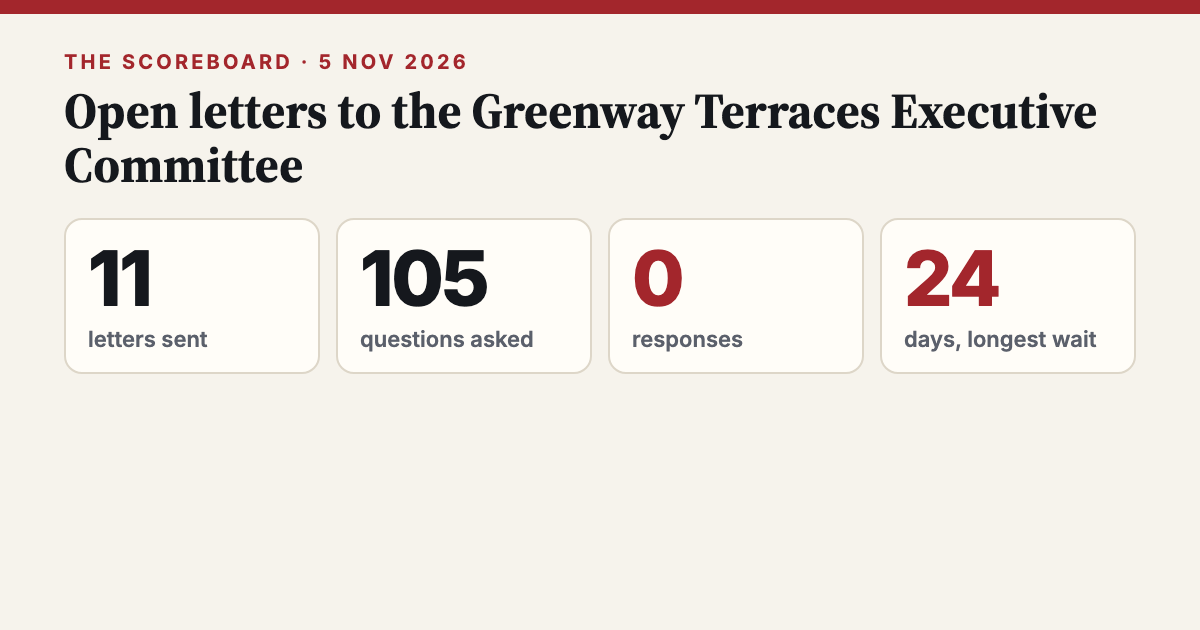
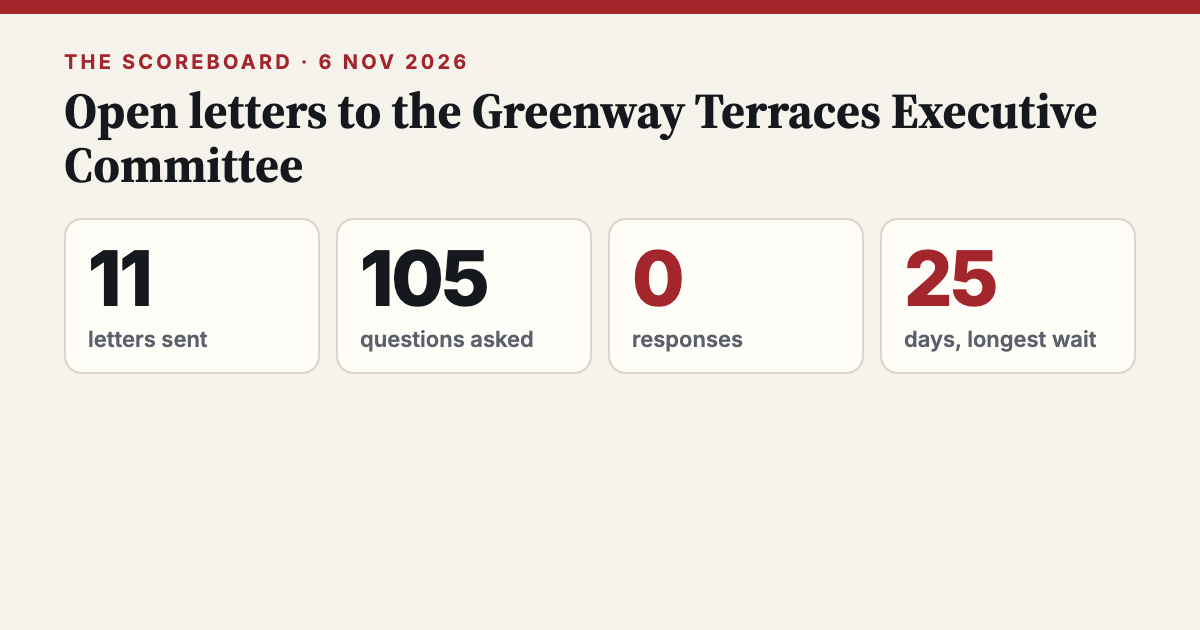
Update 2026-11-06 07:15

diff --git a/index.html b/index.html
@@ -60,11 +60,11 @@ h3{font-size:17px;margin:26px 0 6px}
 <p class="lede">Open letters from an owner to the Executive Committee of Greenway Terraces (Units Plan 12457) and its strata manager: what was asked, and whether anyone answered. Each letter gets 28 days to be answered, or the deadline it sets itself. Responses are published in full; so is silence.</p>
 <div class="score"><div><b>11</b><span>letters sent</span></div><div><b>105</b><span>questions asked</span></div>
 <div class="red"><b>0</b><span>responses received</span></div>
-<div class="red"><b><span data-score-days="2026-10-12" style="font:inherit;color:inherit">24</span></b><span>days, longest wait</span></div></div>
+<div class="red"><b><span data-score-days="2026-10-12" style="font:inherit;color:inherit">25</span></b><span>days, longest wait</span></div></div>
 <input id="q" type="search" placeholder="Search letters" aria-label="Search letters">
 <div class="filters"><button class="on" data-f="">All (11)</button><button data-f="overdue">No response</button><button data-f="awaiting">Awaiting</button><button data-f="responded">Responded</button></div>
-<ul class="list" id="list"><li data-s="awaiting" data-t="battery proposed for greenway terraces common property: questions on cost and consent my letter to the greenway terraces executive committee asks who approved the proposed common property battery, what it will cost, and whose solar electricity would charge it. i've asked for a reply in writing. " style="--c:var(--amber)" data-sent="2026-10-22" data-deadline="2026-11-05">
-<a href="l/2026-10-22-proposed-common-property-battery-request-for-a-full/">Battery proposed for Greenway Terraces common property: questions on cost and consent</a><div class="m"><span class="pill">Awaiting</span>22 Oct 2026 · to the Executive Committee · 8 questions</div></li>
+<ul class="list" id="list"><li data-s="overdue" data-t="battery proposed for greenway terraces common property: questions on cost and consent my letter to the greenway terraces executive committee asks who approved the proposed common property battery, what it will cost, and whose solar electricity would charge it. i've asked for a reply in writing. " style="--c:var(--red)" data-sent="2026-10-22" data-deadline="2026-11-05">
+<a href="l/2026-10-22-proposed-common-property-battery-request-for-a-full/">Battery proposed for Greenway Terraces common property: questions on cost and consent</a><div class="m"><span class="pill">No response</span>22 Oct 2026 · to the Executive Committee · 8 questions</div></li>
 <li data-s="awaiting" data-t="greenway terraces newsletter: a call to explain decisions, costs and the solar battery i've written to the greenway terraces executive committee asking that newsletters explain decisions, costs and funding, and that questions about the proposed solar battery be answered. " style="--c:var(--amber)" data-sent="2026-10-20" data-deadline="2026-11-17">
 <a href="l/2026-10-20-greenway-terraces-newsletter-some-constructive-suggestions/">Greenway Terraces newsletter: a call to explain decisions, costs and the solar battery</a><div class="m"><span class="pill">Awaiting</span>20 Oct 2026 · to the Executive Committee · 4 questions</div></li>
 <li data-s="awaiting" data-t="questions to the greenway terraces committee on the proposed common property battery i've written to the greenway terraces executive committee (up12457) asking where the solar electricity to charge the proposed common property battery would come from, and for a reply by 17 november 2026. " style="--c:var(--amber)" data-sent="2026-10-20" data-deadline="2026-11-17">
@@ -73,8 +73,8 @@ h3{font-size:17px;margin:26px 0 6px}
 <a href="l/2026-10-18-guidelines-for-submitting-correspondence-to-the-ec-status/">Greenway Terraces EC correspondence guidelines: item 8 on AI and 34 unanswered items</a><div class="m"><span class="pill">No response</span>18 Oct 2026 · to the Executive Committee · 7 questions</div></li>
 <li data-s="overdue" data-t="pool-area palm trees: 192 days without answers on cost and dead replacements i've written to the greenway terraces executive committee asking what removing the pool palms and planting the replacements cost, whether the new trees are dead, and why my 9 april 2026 questions are unanswered. " style="--c:var(--red)" data-sent="2026-10-18" data-deadline="2026-10-30">
 <a href="l/2026-10-18-the-pool-area-palm-trees-and-their-replacements/">Pool-area palm trees: 192 days without answers on cost and dead replacements</a><div class="m"><span class="pill">No response</span>18 Oct 2026 · to the Executive Committee · 11 questions</div></li>
-<li data-s="awaiting" data-t="greenway terraces cameras: $24,000 approved, no review for owners i've written to the greenway terraces executive committee asking it to pause any camera extension, publish a review of the seven existing cameras and the $24,000 spend, and list every time footage was accessed. " style="--c:var(--amber)" data-sent="2026-10-15" data-deadline="2026-11-05">
-<a href="l/2026-10-15-video-cameras-my-questions-the-committees-responses-recommendations/">Greenway Terraces cameras: $24,000 approved, no review for owners</a><div class="m"><span class="pill">Awaiting</span>15 Oct 2026 · to the Executive Committee · 18 questions</div></li>
+<li data-s="overdue" data-t="greenway terraces cameras: $24,000 approved, no review for owners i've written to the greenway terraces executive committee asking it to pause any camera extension, publish a review of the seven existing cameras and the $24,000 spend, and list every time footage was accessed. " style="--c:var(--red)" data-sent="2026-10-15" data-deadline="2026-11-05">
+<a href="l/2026-10-15-video-cameras-my-questions-the-committees-responses-recommendations/">Greenway Terraces cameras: $24,000 approved, no review for owners</a><div class="m"><span class="pill">No response</span>15 Oct 2026 · to the Executive Committee · 18 questions</div></li>
 <li data-s="overdue" data-t="playground softfall, colour change and shade sails: which fund and which authority i've written to the greenway terraces executive committee asking which fund paid for the playground softfall, the fitness area colour change and the shade sails, and which section of the act authorised each. " style="--c:var(--red)" data-sent="2026-10-14" data-deadline="2026-10-28">
 <a href="l/2026-10-14-authority-for-the-playground-softfall-fitness-area-colour/">Playground softfall, colour change and shade sails: which fund and which authority</a><div class="m"><span class="pill">No response</span>14 Oct 2026 · to the Executive Committee · 7 questions</div></li>
 <li data-s="awaiting" data-t="greenway terraces: reduced-quorum agms since 2020 and unanswered correspondence i've written to the executive committee of units plan 12457 asking it to confirm what the new communication group is for, and to adopt pre-agm consultation, one route for resident input, and electronic voting. " style="--c:var(--amber)" data-sent="2026-10-13" data-deadline="2026-11-10">
@@ -85,7 +85,7 @@ h3{font-size:17px;margin:26px 0 6px}
 <a href="l/2026-10-12-maintenance-plan-for-greenway-terraces-qia-job-179351/">Greenway Terraces maintenance plan: inconsistencies and missing inspection records</a><div class="m"><span class="pill">No response</span>12 Oct 2026 · to the Executive Committee · 7 questions</div></li>
 <li data-s="awaiting" data-t="questions to the greenway terraces committee on the october 2026 information booklet i've written to the executive committee of owners corporation up12457 asking which resolution made the rules in the october 2026 booklet, whether they are registered, and for a reply by 6 november 2026. " style="--c:var(--amber)" data-sent="2026-10-12" data-deadline="2026-11-06">
 <a href="l/2026-10-12-information-booklet-v1-0-october-2026-request-for/">Questions to the Greenway Terraces committee on the October 2026 information booklet</a><div class="m"><span class="pill">Awaiting</span>12 Oct 2026 · to the Executive Committee · 22 questions</div></li></ul>
-<div class="foot">Steve Prothero · owner · Published by Steve Prothero · Updated 5 November 2026</div>
+<div class="foot">Steve Prothero · owner · Published by Steve Prothero · Updated 6 November 2026</div>
 <script>(function(){var f='',q=document.getElementById('q');function go(){var v=q.value.toLowerCase();document.querySelectorAll('#list li').forEach(function(li){var s=li.querySelector('.pill').textContent==='No response'?'overdue':li.dataset.s;li.style.display=(!f||s===f)&&(!v||li.dataset.t.indexOf(v)>=0)?'':'none'})}
 q.oninput=go;document.querySelectorAll('.filters button').forEach(function(b){b.onclick=function(){document.querySelectorAll('.filters button').forEach(function(x){x.classList.remove('on')});b.classList.add('on');f=b.dataset.f;go()}})})();</script></div><script>(function(){
 var t=new Intl.DateTimeFormat('en-CA',{timeZone:'Australia/Sydney'}).format(new Date());

diff --git a/l/2026-10-12-information-booklet-v1-0-october-2026-request-for/index.html b/l/2026-10-12-information-booklet-v1-0-october-2026-request-for/index.html
@@ -60,7 +60,7 @@ h3{font-size:17px;margin:26px 0 6px}
 <p class="lede">I've written to the Executive Committee of Owners Corporation UP12457 asking which resolution made the rules in the October 2026 booklet, whether they are registered, and for a reply by 6 November 2026.</p>
 <p class="meta">To <b>The Executive Committee, Greenway Terraces (UP12457)</b></p>
 <div class="clock" style="--c:var(--amber)" data-sent="2026-10-12" data-deadline="2026-11-06" data-small="6 Nov 2026">
-<div class="big">Day 24 of 25 — awaiting a response</div><div class="small">Response due 6 Nov 2026. 1 day left.</div><div class="bar"><i style="width:96%"></i></div></div>
+<div class="big">Day 25 of 25 — awaiting a response</div><div class="small">Response due 6 Nov 2026. 0 days left.</div><div class="bar"><i style="width:100%"></i></div></div>
 
 <h2>22 questions put to the Committee</h2>
 <ol class="qs" style="--c:var(--red)"><li>Which resolution made the rules in the booklet, at which meeting, and was it passed at a full or a reduced-quorum meeting?<span class="st">Unanswered</span></li><li>Have they been lodged for registration and, if so, on what date? If not, why is the booklet presenting them as the current rules?<span class="st">Unanswered</span></li><li>What has been issued to owners and residents since V1.0 was circulated, and does the Committee intend to correct or withdraw it if registration has not occurred?<span class="st">Unanswered</span></li><li>What is the Committee's authority for creating obligations by signage, given that rules are made by the Owners Corporation by special resolution?<span class="st">Unanswered</span></li><li>Which of the sign provisions does the Committee say are enforceable against residents, and under which registered rule?<span class="st">Unanswered</span></li><li>The supervision standards differ: rule 1.7(2)(b) (children under 16 in the pool room, by a responsible adult) and the signs (children under 12, by a person 16 or over). Which is correct?<span class="st">Unanswered</span></li><li>Which permitted ground does the Committee rely on for each of these requirements?<span class="st">Unanswered</span></li><li>What is the source and date of the advice recorded in Note 8, and who gave it?<span class="st">Unanswered</span></li><li>On what basis may the Committee require compliance with guidance not yet issued (rule 1.16(6))?<span class="st">Unanswered</span></li><li>Rule 1.17(3) limits charging of light electric vehicles, including mobility scooters, to the unit courtyard. What provision is made for residents with a disability who cannot comply?<span class="st">Unanswered</span></li><li>On what authority does the Strata Manager impose a penalty by letter, and how does that fit with section 109?<span class="st">Unanswered</span></li><li>Please identify the provision cited in paragraph 9, and the resolution by which the Committee and the Strata Manager were given permission to take legal action.<span class="st">Unanswered</span></li><li>The preamble says no special privilege to park is granted, while rule 1.7(8) grants one. Which applies?<span class="st">Unanswered</span></li><li>The policy treats 24 hours in a seven-day period in visitor parking as &quot;temporary parking&quot;, and rules 1.13(5)-(6) restrict visitor parking to visitors. On what basis does the Committee say a policy may vary a registered rule?<span class="st">Unanswered</span></li><li>Does the Committee accept that the policy does not remove an owner's ability to request that an infringement notice be given (s 111)?<span class="st">Unanswered</span></li><li>The booklet tells owners the best sources of information are the Act and minutes. Why does it not refer to the right to ask for access to the corporation's records (s 120A), to the Tribunal, or to mediation?<span class="st">Unanswered</span></li><li>It states that all owner communication should go through the Strata Manager's general email. Who is the Committee's designated contact for owner correspondence, and what response time does the Committee commit to?<span class="st">Unanswered</span></li><li>Several statements are made without a source: that only financial owners may vote; that Committee members are &quot;typically between 3 and 7&quot;; and that special levies may be determined only at an AGM or GM. Please identify the provision for each.<span class="st">Unanswered</span></li><li>Units of entitlement: the table in the booklet totals 9,996, not the stated 10,000. Lots 107 and 108 appear as 68, but the 2022 levy schedule shows 70. Which figure is correct, and has any levy been calculated from the table?<span class="st">Unanswered</span></li><li>CCTV Policy: on what advice does the Owners Corporation say the Information Privacy Act 2014, the Territory Records Act 2002 and the Human Rights Act 2004 apply to its system, and what advice was taken on the Privacy Act 1988 (Cth), the Workplace Privacy Act 2011 and the Surveillance Devices Act 2007?<span class="st">Unanswered</span></li><li>Notes 11, 12, 15 and 16 record non-compliant firewalls and combustible cladding. Please identify the reports and insurer conditions relied upon, and say who approved including them in the rules.<span class="st">Unanswered</span></li><li>The booklet says external paint colours &quot;must&quot; follow the palette and that owners &quot;must&quot; keep common-property garden patches in order. Under which rule?<span class="st">Unanswered</span></li></ol>

diff --git a/l/2026-10-15-video-cameras-my-questions-the-committees-responses-recommendations/index.html b/l/2026-10-15-video-cameras-my-questions-the-committees-responses-recommendations/index.html
@@ -59,8 +59,8 @@ h3{font-size:17px;margin:26px 0 6px}
 <h1>Greenway Terraces cameras: $24,000 approved, no review for owners</h1>
 <p class="lede">I've written to the Greenway Terraces Executive Committee asking it to pause any camera extension, publish a review of the seven existing cameras and the $24,000 spend, and list every time footage was accessed.</p>
 <p class="meta">To <b>The Executive Committee, Greenway Terraces (UP12457)</b></p>
-<div class="clock" style="--c:var(--amber)" data-sent="2026-10-15" data-deadline="2026-11-05" data-small="5 Nov 2026">
-<div class="big">Day 21 of 21 — awaiting a response</div><div class="small">Response due 5 Nov 2026. 0 days left.</div><div class="bar"><i style="width:100%"></i></div></div>
+<div class="clock" style="--c:var(--red)" data-sent="2026-10-15" data-deadline="2026-11-05" data-small="5 Nov 2026">
+<div class="big">No response — 1 day overdue</div><div class="small">Deadline passed 5 Nov 2026. 22 days since the letter was sent.</div><div class="bar"><i style="width:100%"></i></div></div>
 
 <h2>18 questions put to the Committee</h2>
 <ol class="qs" style="--c:var(--red)"><li>What specific problem is the extension meant to solve, and what is the evidence (dates, locations, types of incident, police reference numbers where applicable)?<span class="st">Unanswered</span></li><li>What have the existing seven cameras achieved on that problem? Has any footage led to an identification, a police outcome, or the prevention of a loss?<span class="st">Unanswered</span></li><li>What is the actual cost to date, and the whole-of-life cost over ten years of the proposed extension (hardware, installation, power and network, storage, licences, maintenance, replacement, administration)?<span class="st">Unanswered</span></li><li>Which fund would pay, under which budget or resolution, and is that consistent with the sinking fund plan and sections 75, 77 and 86 to 88?<span class="st">Unanswered</span></li><li>Where exactly would each camera go, what would it see, and could it see into private lots, balconies or windows?<span class="st">Unanswered</span></li><li>Would any camera be monitored, by whom, and at what cost? If not, what response is expected from recorded footage?<span class="st">Unanswered</span></li><li>What alternatives were considered (lighting, locks, access control, fencing, resident reporting, Neighbourhood Watch), with comparative cost and expected effect?<span class="st">Unanswered</span></li><li>What written legal and privacy advice has been obtained, and is the CCTV Policy current and compliant? Who may view footage, how is access logged, how long is footage kept, and how is it secured?<span class="st">Unanswered</span></li><li>What do residents think? Have owners and renters been consulted, including the different cultural and language groups in the complex?<span class="st">Unanswered</span></li><li>How will the vote be run so that it is representative? Of 151 units, a reduced quorum of 76 can decide a matter, so the Committee should state the turnout it regards as adequate, give clear notice with the supporting facts attached, and consider using the electronic voting already authorised by 2021 Motion 20. It should also explain the 28-day disallowance process.<span class="st">Unanswered</span></li><li>How will success be measured, who will report on it and when, and what happens if the objectives are not met?<span class="st">Unanswered</span></li><li>Whether the Committee accepts recommendations 1 to 11, and if not, why?<span class="st">Unanswered</span></li><li>A complete statement of each occasion footage has been accessed since installation, showing when, by whom, what it was used for and what the outcome was, or confirmation that no record exists?<span class="st">Unanswered</span></li><li>Whether this letter has been referred to the Security sub-committee, and the advice that sub-committee gives, reflected in the Committee's reply to me?<span class="st">Unanswered</span></li><li>Whether the Communications sub-committee will review the handling of correspondence, and when?<span class="st">Unanswered</span></li><li>When will the post-implementation review and report to owners be completed?<span class="st">Unanswered</span></li><li>Whether any further camera expenditure has been committed or is proposed?<span class="st">Unanswered</span></li><li>When can I expect answers to my letters of 22 March and 7 May 2026?<span class="st">Unanswered</span></li></ol>

diff --git a/l/2026-10-18-the-pool-area-palm-trees-and-their-replacements/index.html b/l/2026-10-18-the-pool-area-palm-trees-and-their-replacements/index.html
@@ -60,7 +60,7 @@ h3{font-size:17px;margin:26px 0 6px}
 <p class="lede">I've written to the Greenway Terraces Executive Committee asking what removing the pool palms and planting the replacements cost, whether the new trees are dead, and why my 9 April 2026 questions are unanswered.</p>
 <p class="meta">To <b>The Executive Committee, Greenway Terraces (UP12457)</b></p>
 <div class="clock" style="--c:var(--red)" data-sent="2026-10-18" data-deadline="2026-10-30" data-small="30 Oct 2026">
-<div class="big">No response — 6 days overdue</div><div class="small">Deadline passed 30 Oct 2026. 18 days since the letter was sent.</div><div class="bar"><i style="width:100%"></i></div></div>
+<div class="big">No response — 7 days overdue</div><div class="small">Deadline passed 30 Oct 2026. 19 days since the letter was sent.</div><div class="bar"><i style="width:100%"></i></div></div>
 
 <h2>11 questions put to the Committee</h2>
 <ol class="qs" style="--c:var(--red)"><li>Why were the palms removed? What exactly was the reason the palm trees at the pool were removed, and who decided it should be done?<span class="st">Unanswered</span></li><li>Cost of removal. What did it cost to remove the palm trees?<span class="st">Unanswered</span></li><li>Cost of the replacement trees. What did it cost to supply and plant the new trees? Please state the species, the number of trees, the contractor or landscaper, and the quote or invoice amounts.<span class="st">Unanswered</span></li><li>Are the new trees dead? Please confirm whether the replacement trees are dead, and how many of them.<span class="st">Unanswered</span></li><li>What is now planned? What is the plan for dealing with the dead trees, who will carry out the work, and who will bear the cost?<span class="st">Unanswered</span></li><li>Total cost. What is the total cost to the Owners Corporation of the whole project to date, being removal, replacement and any further work, and what is the expected total once the dead trees are dealt with?<span class="st">Unanswered</span></li><li>Who ran the project? Who actually ran this project with the contractors? Please name the committee member who was making the decisions about the planting, and say who approved the quote and the choice of species, and when.<span class="st">Unanswered</span></li><li>Species advice. Was the species of replacement tree recommended by the contractor or landscaper?<span class="st">Unanswered</span></li><li>Contractor liability. If so, will replacement be at the contractor's cost or the Owners Corporation's?<span class="st">Unanswered</span></li><li>Cause. Is the cause of the decline or death of the trees known, and has any investigation been done into whether pool water, splash or run-off contributed?<span class="st">Unanswered</span></li><li>Authority. What resolution or other authority was relied on for the palm replacement (my question of 26 March 2026)?<span class="st">Unanswered</span></li></ol>

diff --git a/l/2026-10-20-request-for-explanation-proposed-battery-and-source-of/index.html b/l/2026-10-20-request-for-explanation-proposed-battery-and-source-of/index.html
@@ -60,7 +60,7 @@ h3{font-size:17px;margin:26px 0 6px}
 <p class="lede">I've written to the Greenway Terraces Executive Committee (UP12457) asking where the solar electricity to charge the proposed common property battery would come from, and for a reply by 17 November 2026.</p>
 <p class="meta">To <b>The Executive Committee, Greenway Terraces (UP12457)</b></p>
 <div class="clock" style="--c:var(--amber)" data-sent="2026-10-20" data-deadline="2026-11-17" data-small="17 Nov 2026">
-<div class="big">Day 16 of 28 — awaiting a response</div><div class="small">Response due 17 Nov 2026. 12 days left.</div><div class="bar"><i style="width:57.14285714285714%"></i></div></div>
+<div class="big">Day 17 of 28 — awaiting a response</div><div class="small">Response due 17 Nov 2026. 11 days left.</div><div class="bar"><i style="width:60.71428571428571%"></i></div></div>
 
 <h2>6 questions put to the Committee</h2>
 <ol class="qs" style="--c:var(--red)"><li>Does the Owners Corporation own any solar panels? My understanding is that it does not. If that is correct, I request an explanation of where this electricity will come from and how the Owners Corporation will obtain the legal right to use it.<span class="st">Unanswered</span></li><li>Source and ownership of electricity: Who owns the solar panels generating the electricity? Is the electricity coming from individual townhouse owners, the electricity grid or another provider? What evidence establishes that this electricity cannot be sold to the grid?<span class="st">Unanswered</span></li><li>Legal entitlement: If the electricity is generated by privately owned solar panels, how does the Owners Corporation acquire the legal right to use it? Have the owners concerned consented, and will they be compensated? What agreements or legal advice establish the Owners Corporation's entitlement to this electricity?<span class="st">Unanswered</span></li><li>Technical arrangements: How will the electricity reach the battery? Will the battery connect to individual properties, common property electrical infrastructure or the distribution network? What arrangements have been made with Evoenergy or an electricity retailer?<span class="st">Unanswered</span></li><li>Financial justification: What is the total cost of purchasing and installing the battery? Will the Owners Corporation pay for the electricity used to charge it? What are the projected annual net savings, maintenance costs, battery lifespan and payback period? Has a financial business case been prepared using actual electricity consumption and generation data?<span class="st">Unanswered</span></li><li>Governance and approval: What approvals have been obtained, and what expenditure has already been authorised? Will the technical assessment, financial business case and relevant agreements be made available to owners?<span class="st">Unanswered</span></li></ol>

diff --git a/l/2026-10-22-proposed-common-property-battery-request-for-a-full/index.html b/l/2026-10-22-proposed-common-property-battery-request-for-a-full/index.html
@@ -59,8 +59,8 @@ h3{font-size:17px;margin:26px 0 6px}
 <h1>Battery proposed for Greenway Terraces common property: questions on cost and consent</h1>
 <p class="lede">My letter to the Greenway Terraces Executive Committee asks who approved the proposed common property battery, what it will cost, and whose solar electricity would charge it. I've asked for a reply in writing.</p>
 <p class="meta">To <b>The Executive Committee, Greenway Terraces (UP12457)</b></p>
-<div class="clock" style="--c:var(--amber)" data-sent="2026-10-22" data-deadline="2026-11-05" data-small="5 Nov 2026">
-<div class="big">Day 14 of 14 — awaiting a response</div><div class="small">Response due 5 Nov 2026. 0 days left.</div><div class="bar"><i style="width:100%"></i></div></div>
+<div class="clock" style="--c:var(--red)" data-sent="2026-10-22" data-deadline="2026-11-05" data-small="5 Nov 2026">
+<div class="big">No response — 1 day overdue</div><div class="small">Deadline passed 5 Nov 2026. 15 days since the letter was sent.</div><div class="bar"><i style="width:100%"></i></div></div>
 
 <h2>8 questions put to the Committee</h2>
 <ol class="qs" style="--c:var(--red)"><li>Does the Owners Corporation own any solar panels today? If not, will the Committee buy its own panels to charge the battery?<span class="st">Unanswered</span></li><li>If so, where on common property will they go, how many, at what total cost, and from which fund?<span class="st">Unanswered</span></li><li>Where is the approval for the battery and for any panels: which general meeting or committee resolution, on what date, and for what amount? Please provide a copy.<span class="st">Unanswered</span></li><li>Please explain fully what is meant by electricity that is &quot;surplus&quot; or &quot;cannot be sold to the grid&quot;. Who generates it, at which meters, and what evidence (export limits, metering data, advice from Evoenergy or a retailer) shows it cannot be exported?<span class="st">Unanswered</span></li><li>Who owns that electricity at the moment it is generated?<span class="st">Unanswered</span></li><li>Has each owner whose electricity would be used given written consent for it to be moved into a battery for Owners Corporation use? On what terms, and will they be paid for it? Please provide the consent form or agreement and the number of owners who have signed.<span class="st">Unanswered</span></li><li>Physically, how will electricity get from private lots to a common property battery? Has the wiring, metering and connection been approved by Evoenergy and certified by a licensed electrician?<span class="st">Unanswered</span></li><li>What is the full cost of the battery, installation, smart-meter upgrade and ongoing maintenance, and what is the expected saving, battery life and payback period? Please provide the quote(s) and any business case.<span class="st">Unanswered</span></li></ol>

diff --git a/l/2026-10-13-greenway-terraces-up12457-executive-committee-minutes-record-keeping/index.html b/l/2026-10-13-greenway-terraces-up12457-executive-committee-minutes-record-keeping/index.html
@@ -60,7 +60,7 @@ h3{font-size:17px;margin:26px 0 6px}
 <p class="lede">I've written to Grady's Strata, for referral to the Executive Committee, asking when the 29 September 2026 minutes went to owners, how the four subcommittees were set up, and how records are kept.</p>
 <p class="meta">To <b>The Executive Committee, Greenway Terraces (UP12457)</b></p>
 <div class="clock" style="--c:var(--amber)" data-sent="2026-10-13" data-deadline="2026-11-10" data-small="10 Nov 2026">
-<div class="big">Day 23 of 28 — awaiting a response</div><div class="small">Response due 10 Nov 2026. 5 days left.</div><div class="bar"><i style="width:82.14285714285714%"></i></div></div>
+<div class="big">Day 24 of 28 — awaiting a response</div><div class="small">Response due 10 Nov 2026. 4 days left.</div><div class="bar"><i style="width:85.71428571428571%"></i></div></div>
 
 <h2>6 questions put to the Committee</h2>
 <ol class="qs" style="--c:var(--red)"><li>Minutes and statutory timing: Confirm when the 29 September 2026 minutes were provided to all owners and whether the 14-day statutory deadline (13 October 2026) was met. Consider a standard format identifying substantive decisions, relevant conditions and outcomes.<span class="st">Unanswered</span></li><li>Financial decisions: Consistently record the supplier, purpose, approved amount and budget allocation for expenditure, and identify the financial reports considered at each meeting.<span class="st">Unanswered</span></li><li>Major works and corporate records: Link resolutions to quotations, contracts, defect and insurance documents, warranties and project-status reports; establish records that remain accessible across committee and strata-manager changes.<span class="st">Unanswered</span></li><li>Subcommittees: Explain how members of the Energy, Security, Building Defects and Communications subcommittees were selected, whether other owners could contribute, and when written terms of reference will be available setting out objectives, authority, responsibilities and reporting.<span class="st">Unanswered</span></li><li>Outstanding work and correspondence: Maintain an action register showing ownership, deadlines and status; record the general subject and outcome of substantive owner correspondence while protecting privacy.<span class="st">Unanswered</span></li><li>Communications and governance: Clarify official communication channels and ask Grady to advise whether the present minute-taking and record-retention practices are suitable for a 151-townhouse corporation, and what improvements it recommends.<span class="st">Unanswered</span></li></ol>

diff --git a/l/2026-10-14-authority-for-the-playground-softfall-fitness-area-colour/index.html b/l/2026-10-14-authority-for-the-playground-softfall-fitness-area-colour/index.html
@@ -60,7 +60,7 @@ h3{font-size:17px;margin:26px 0 6px}
 <p class="lede">I've written to the Greenway Terraces Executive Committee asking which fund paid for the playground softfall, the fitness area colour change and the shade sails, and which section of the Act authorised each.</p>
 <p class="meta">To <b>The Executive Committee, Greenway Terraces (UP12457)</b></p>
 <div class="clock" style="--c:var(--red)" data-sent="2026-10-14" data-deadline="2026-10-28" data-small="28 Oct 2026">
-<div class="big">No response — 8 days overdue</div><div class="small">Deadline passed 28 Oct 2026. 22 days since the letter was sent.</div><div class="bar"><i style="width:100%"></i></div></div>
+<div class="big">No response — 9 days overdue</div><div class="small">Deadline passed 28 Oct 2026. 23 days since the letter was sent.</div><div class="bar"><i style="width:100%"></i></div></div>
 
 <h2>7 questions put to the Committee</h2>
 <ol class="qs" style="--c:var(--red)"><li>The fund from which it was paid (Administrative or Sinking)<span class="st">Unanswered</span></li><li>Whether section 77(a), section 77(b) or section 88 is relied on<span class="st">Unanswered</span></li><li>How the payment fits that provision<span class="st">Unanswered</span></li><li>The plan, in the version adopted by Motion 3, lists &quot;Repair/replace softfall surface in outdoor gym&quot; in 2025/26 and, separately, &quot;Repair/replace playground softfall surface&quot; in 2044. The works were carried out in the children's playground. Which plan entry is the payment said to be consistent with, and how?<span class="st">Unanswered</span></li><li>The Purchasing Decision Assessment Form records a full cost of $47,500 ex GST, and the plan entry is $45,000 inc GST. Was the difference approved by any resolution of the Executive Committee or the Owners Corporation, or by an amendment to the plan under section 86?<span class="st">Unanswered</span></li><li>The same Bruces Sports and Play quotation of 7 October 2025 also covered a colour change to the fitness equipment area ($13,500 + GST) and shade sails ($15,000 + GST). For each, which fund was used and what authority is relied on, including any line in the 2025/26 Administrative Fund budget?<span class="st">Unanswered</span></li><li>I would be glad to know whether the Committee is willing to consider this.<span class="st">Unanswered</span></li></ol>

diff --git a/l/2026-10-12-maintenance-plan-for-greenway-terraces-qia-job-179351/index.html b/l/2026-10-12-maintenance-plan-for-greenway-terraces-qia-job-179351/index.html
@@ -60,7 +60,7 @@ h3{font-size:17px;margin:26px 0 6px}
 <p class="lede">I've written to the Greenway Terraces Executive Committee about the August 2022 maintenance plan (QIA job 179351), asking for inspection and completion records and a reply by Friday 30 October 2026.</p>
 <p class="meta">To <b>The Executive Committee, Greenway Terraces (UP12457)</b></p>
 <div class="clock" style="--c:var(--red)" data-sent="2026-10-12" data-deadline="2026-10-30" data-small="30 Oct 2026">
-<div class="big">No response — 6 days overdue</div><div class="small">Deadline passed 30 Oct 2026. 24 days since the letter was sent.</div><div class="bar"><i style="width:100%"></i></div></div>
+<div class="big">No response — 7 days overdue</div><div class="small">Deadline passed 30 Oct 2026. 25 days since the letter was sent.</div><div class="bar"><i style="width:100%"></i></div></div>
 
 <h2>7 questions put to the Committee</h2>
 <ol class="qs" style="--c:var(--red)"><li>Is the August 2022 plan the maintenance plan currently adopted by the Owners Corporation? If a later version exists, please provide it.<span class="st">Unanswered</span></li><li>Has the plan been reviewed or updated since 15 August 2022? If so, when, and by whom?<span class="st">Unanswered</span></li><li>Please provide the inspection and service records for fire hose reels, portable fire extinguishers, hydrant valve assemblies, emergency and exit lighting, and the electrical switchboards and RCDs since 1 August 2021. If no such records exist for any item, please say so.<span class="st">Unanswered</span></li><li>Please confirm, for each item scheduled in 2022 to 2026, whether the work was completed, and provide the records of completion or state that none exist.<span class="st">Unanswered</span></li><li>Does the Committee accept the inconsistencies in section 2 (including the pool filter and pool surface entries, the blank install dates and the AS2293.2-1995 reference)? If any is disputed, please say which and why.<span class="st">Unanswered</span></li><li>Will the plan be revised and reconciled with version 4 of the sinking fund? If so, by whom, and by what date?<span class="st">Unanswered</span></li><li>Who is responsible for maintaining the plan and for recording inspections against it?<span class="st">Unanswered</span></li></ol>

diff --git a/l/2026-10-13-covering-note-brief-on-participation-the-committee-and/index.html b/l/2026-10-13-covering-note-brief-on-participation-the-committee-and/index.html
@@ -60,7 +60,7 @@ h3{font-size:17px;margin:26px 0 6px}
 <p class="lede">I've written to the Executive Committee of Units Plan 12457 asking it to confirm what the new communication group is for, and to adopt pre-AGM consultation, one route for resident input, and electronic voting.</p>
 <p class="meta">To <b>The Executive Committee, Greenway Terraces (UP12457)</b></p>
 <div class="clock" style="--c:var(--amber)" data-sent="2026-10-13" data-deadline="2026-11-10" data-small="10 Nov 2026">
-<div class="big">Day 23 of 28 — awaiting a response</div><div class="small">Response due 10 Nov 2026. 5 days left.</div><div class="bar"><i style="width:82.14285714285714%"></i></div></div>
+<div class="big">Day 24 of 28 — awaiting a response</div><div class="small">Response due 10 Nov 2026. 4 days left.</div><div class="bar"><i style="width:85.71428571428571%"></i></div></div>
 
 <h2>9 questions put to the Committee</h2>
 <ol class="qs" style="--c:var(--red)"><li>Its remit, and whether it advises the Committee or communicates on the Committee's behalf.<span class="st">Unanswered</span></li><li>Its membership, including whether owners outside the Committee and residents who rent are involved.<span class="st">Unanswered</span></li><li>Who it reports to, and what authority it has to act.<span class="st">Unanswered</span></li><li>Its timetable, including when its first outputs are due and when it will report to owners.<span class="st">Unanswered</span></li><li>That the brief be tabled at the next Committee meeting, and the four matters above confirmed.<span class="st">Unanswered</span></li><li>That the Committee state which of the three priorities it will adopt, and by when.<span class="st">Unanswered</span></li><li>What would a resident who has never attended want to know before considering standing?<span class="st">Unanswered</span></li><li>How should nominations be announced so that standing is plainly open to everyone?<span class="st">Unanswered</span></li><li>What published timeframes for acknowledging and answering resident correspondence should the Committee adopt, and who should own them?<span class="st">Unanswered</span></li></ol>

diff --git a/l/2026-10-18-guidelines-for-submitting-correspondence-to-the-ec-status/index.html b/l/2026-10-18-guidelines-for-submitting-correspondence-to-the-ec-status/index.html
@@ -60,7 +60,7 @@ h3{font-size:17px;margin:26px 0 6px}
 <p class="lede">I've written to the Greenway Terraces Executive Committee asking it to withdraw item 8 on AI from its correspondence guidelines, confirm owners' statutory rights, and answer 34 outstanding items by 30 October 2026.</p>
 <p class="meta">To <b>The Executive Committee, Greenway Terraces (UP12457)</b></p>
 <div class="clock" style="--c:var(--red)" data-sent="2026-10-18" data-deadline="2026-10-30" data-small="30 Oct 2026">
-<div class="big">No response — 6 days overdue</div><div class="small">Deadline passed 30 Oct 2026. 18 days since the letter was sent.</div><div class="bar"><i style="width:100%"></i></div></div>
+<div class="big">No response — 7 days overdue</div><div class="small">Deadline passed 30 Oct 2026. 19 days since the letter was sent.</div><div class="bar"><i style="width:100%"></i></div></div>
 
 <h2>7 questions put to the Committee</h2>
 <ol class="qs" style="--c:var(--red)"><li>Please confirm they are not rules of the owners corporation and identify any resolution adopting them.<span class="st">Unanswered</span></li><li>Please confirm requests under the Act will be accepted, with time running from receipt, whatever their length or format.<span class="st">Unanswered</span></li><li>Item 8 (AI): Nothing in the Act requires it. Please withdraw it.<span class="st">Unanswered</span></li><li>Video cameras: post-implementation review asked 22 March and again 7 May (has trespass actually fallen?).<span class="st">Unanswered</span></li><li>Playground softfall: asked 30 March whether it still met the fall-safety standard.<span class="st">Unanswered</span></li><li>Please state in writing the problem the Guidelines address, and the authority for items 8 and 9.<span class="st">Unanswered</span></li><li>I ask for a written reply by Friday 30 October 2026 covering: withdrawal of item 8; the confirmations in section 1; each register item answered, closed with reasons, or given a date; and who is responsible for answering owner correspondence.<span class="st">Unanswered</span></li></ol>

diff --git a/l/2026-10-20-greenway-terraces-newsletter-some-constructive-suggestions/index.html b/l/2026-10-20-greenway-terraces-newsletter-some-constructive-suggestions/index.html
@@ -60,7 +60,7 @@ h3{font-size:17px;margin:26px 0 6px}
 <p class="lede">I've written to the Greenway Terraces Executive Committee asking that newsletters explain decisions, costs and funding, and that questions about the proposed solar battery be answered.</p>
 <p class="meta">To <b>The Executive Committee, Greenway Terraces (UP12457)</b></p>
 <div class="clock" style="--c:var(--amber)" data-sent="2026-10-20" data-deadline="2026-11-17" data-small="17 Nov 2026">
-<div class="big">Day 16 of 28 — awaiting a response</div><div class="small">Response due 17 Nov 2026. 12 days left.</div><div class="bar"><i style="width:57.14285714285714%"></i></div></div>
+<div class="big">Day 17 of 28 — awaiting a response</div><div class="small">Response due 17 Nov 2026. 11 days left.</div><div class="bar"><i style="width:60.71428571428571%"></i></div></div>
 
 <h2>4 questions put to the Committee</h2>
 <ol class="qs" style="--c:var(--red)"><li>Explain decisions, not simply announce them. What is proposed, why is it necessary, what alternatives were considered and who authorised it?<span class="st">Unanswered</span></li><li>Provide meaningful financial information. What will projects cost, how will they be funded, and what savings or benefits are expected?<span class="st">Unanswered</span></li><li>Report outcomes and progress. What has been achieved, what remains outstanding and are projects proceeding within budget?<span class="st">Unanswered</span></li><li>What are we doing, why are we doing it, what will it cost, what are the benefits, and how can residents obtain further information?<span class="st">Unanswered</span></li></ol>
